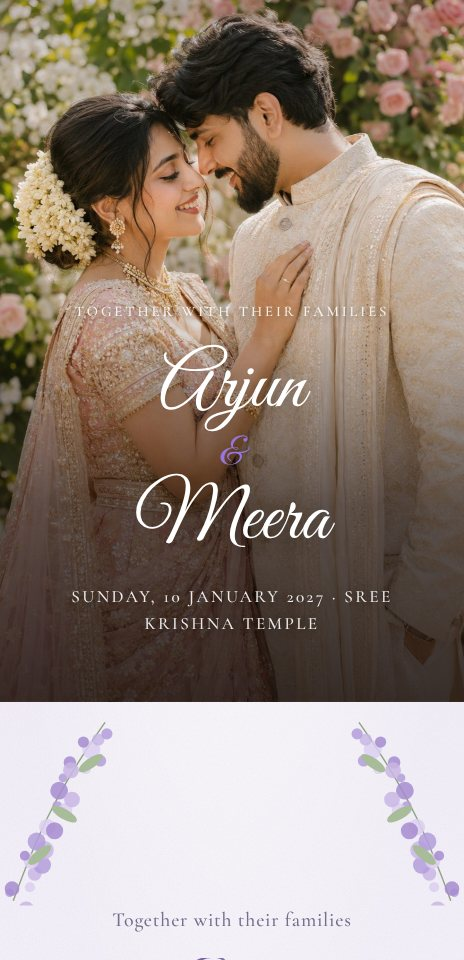
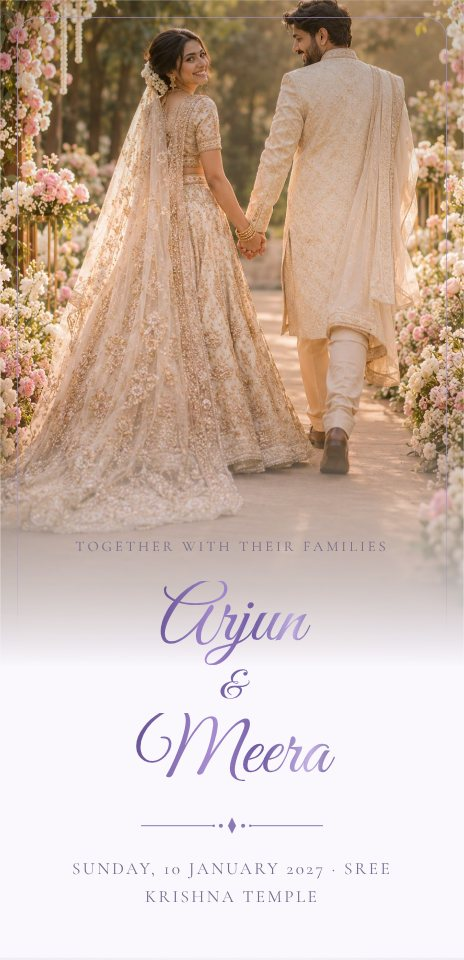
Photo covers blend into each design
The couple photo now fades into the design's own paper colour inside a thin frame in
its accent colour, with the names in the design's own lettering and divider, instead of
a generic dark fade with white text. All paid design cards regenerated.

Claude-Session: https://claude.ai/code/session_01HTLJ5qXdA6w9sojxHduBi6

diff --git a/assets/invite.css b/assets/invite.css
@@ -800,3 +800,22 @@
 .wl[data-theme=bloom] .wl-pl-date { color: var(--acc2); }
 .wl[data-theme=bloom] h2 { font-style: italic; font-size: 1.8rem; }
 .wl-crafted-top { margin-top: 28px; }
+
+/* ===== photo cover belongs to the design: fades into the design's own paper, names in its own lettering ===== */
+.wl-cv { height: auto !important; min-height: 0 !important; display: flex !important; flex-direction: column; background: var(--page); }
+.wl-cv .wl-slides { position: relative; inset: auto; width: 100%; align-self: stretch; height: 72svh; min-height: 440px; flex: none;
+  -webkit-mask-image: linear-gradient(180deg, #000 0%, #000 62%, transparent 100%); mask-image: linear-gradient(180deg, #000 0%, #000 62%, transparent 100%); }
+.wl-cv::after, .wl.has-bg .wl-cv::after { content: ''; position: absolute; left: 0; right: 0; top: 0; height: 22%; z-index: 1; background: linear-gradient(180deg, rgba(0,0,0,.22), transparent); }
+.wl-cv-frame { position: absolute; inset: 14px 14px auto; height: calc(72svh - 40px); min-height: 410px; z-index: 2; pointer-events: none;
+  border: 1px solid color-mix(in srgb, var(--acc) 70%, #fff); border-bottom: 0; border-radius: var(--photo-r, 4px) var(--photo-r, 4px) 0 0; opacity: .85;
+  -webkit-mask-image: linear-gradient(180deg, #000 70%, transparent 100%); mask-image: linear-gradient(180deg, #000 70%, transparent 100%); }
+.wl-cv-in { position: relative !important; left: auto; right: auto; bottom: auto; margin-top: -110px; padding: 0 24px 40px !important; color: var(--ink) !important; z-index: 3; }
+.wl-cv .wl-intro { color: var(--muted) !important; text-shadow: none !important; }
+.wl-cv .wl-names { color: var(--acc2) !important; }
+.wl-cv .wl-names > span:not(.wl-amp) { background: var(--foil) !important; -webkit-background-clip: text !important; background-clip: text !important; -webkit-text-fill-color: transparent !important; color: transparent !important; text-shadow: none !important; }
+.wl-cv .wl-amp { color: var(--acc) !important; filter: none !important; }
+.wl-cv .wl-pl-date { color: var(--muted) !important; text-shadow: none !important; }
+.wl-cv .wl-div { margin: 10px auto 2px; }
+.wl-cv-down { border-color: var(--line) !important; }
+.wl-cv-down::after { background: var(--acc) !important; }
+.wl-cv-in { align-self: stretch; }

diff --git a/assets/invite.js b/assets/invite.js
@@ -735,9 +735,10 @@
     } else {
     if (photos[0]) {
       var cp = first && first.date ? parts(first.date) : null;
-      html += '<header class="wl-hero wl-cv" data-sec="hero">' + slides(ANIM[v.theme] ? photos.slice(0, 5) : [photos[0]], title) + particles(ANIM[v.theme]) +
+      html += '<header class="wl-hero wl-cv" data-sec="hero"><span class="wl-cv-frame" aria-hidden="true"></span>' + slides(ANIM[v.theme] ? photos.slice(0, 5) : [photos[0]], title) + particles(ANIM[v.theme]) +
         '<div class="wl-cv-in"><p class="wl-intro">' + esc(v.intro) + '</p>' +
         '<h1 class="wl-names"><span>' + esc(v.p1) + '</span><span class="wl-amp">&amp;</span><span>' + esc(v.p2) + '</span></h1>' +
+        divider(v.theme) +
         (cp ? '<p class="wl-pl-date">' + esc(longDate(first.date)) + (first.venue ? ' · ' + esc(first.venue) : '') + '</p>' : '') +
         '<span class="wl-cv-down" aria-hidden="true"></span></div></header>';
     }
